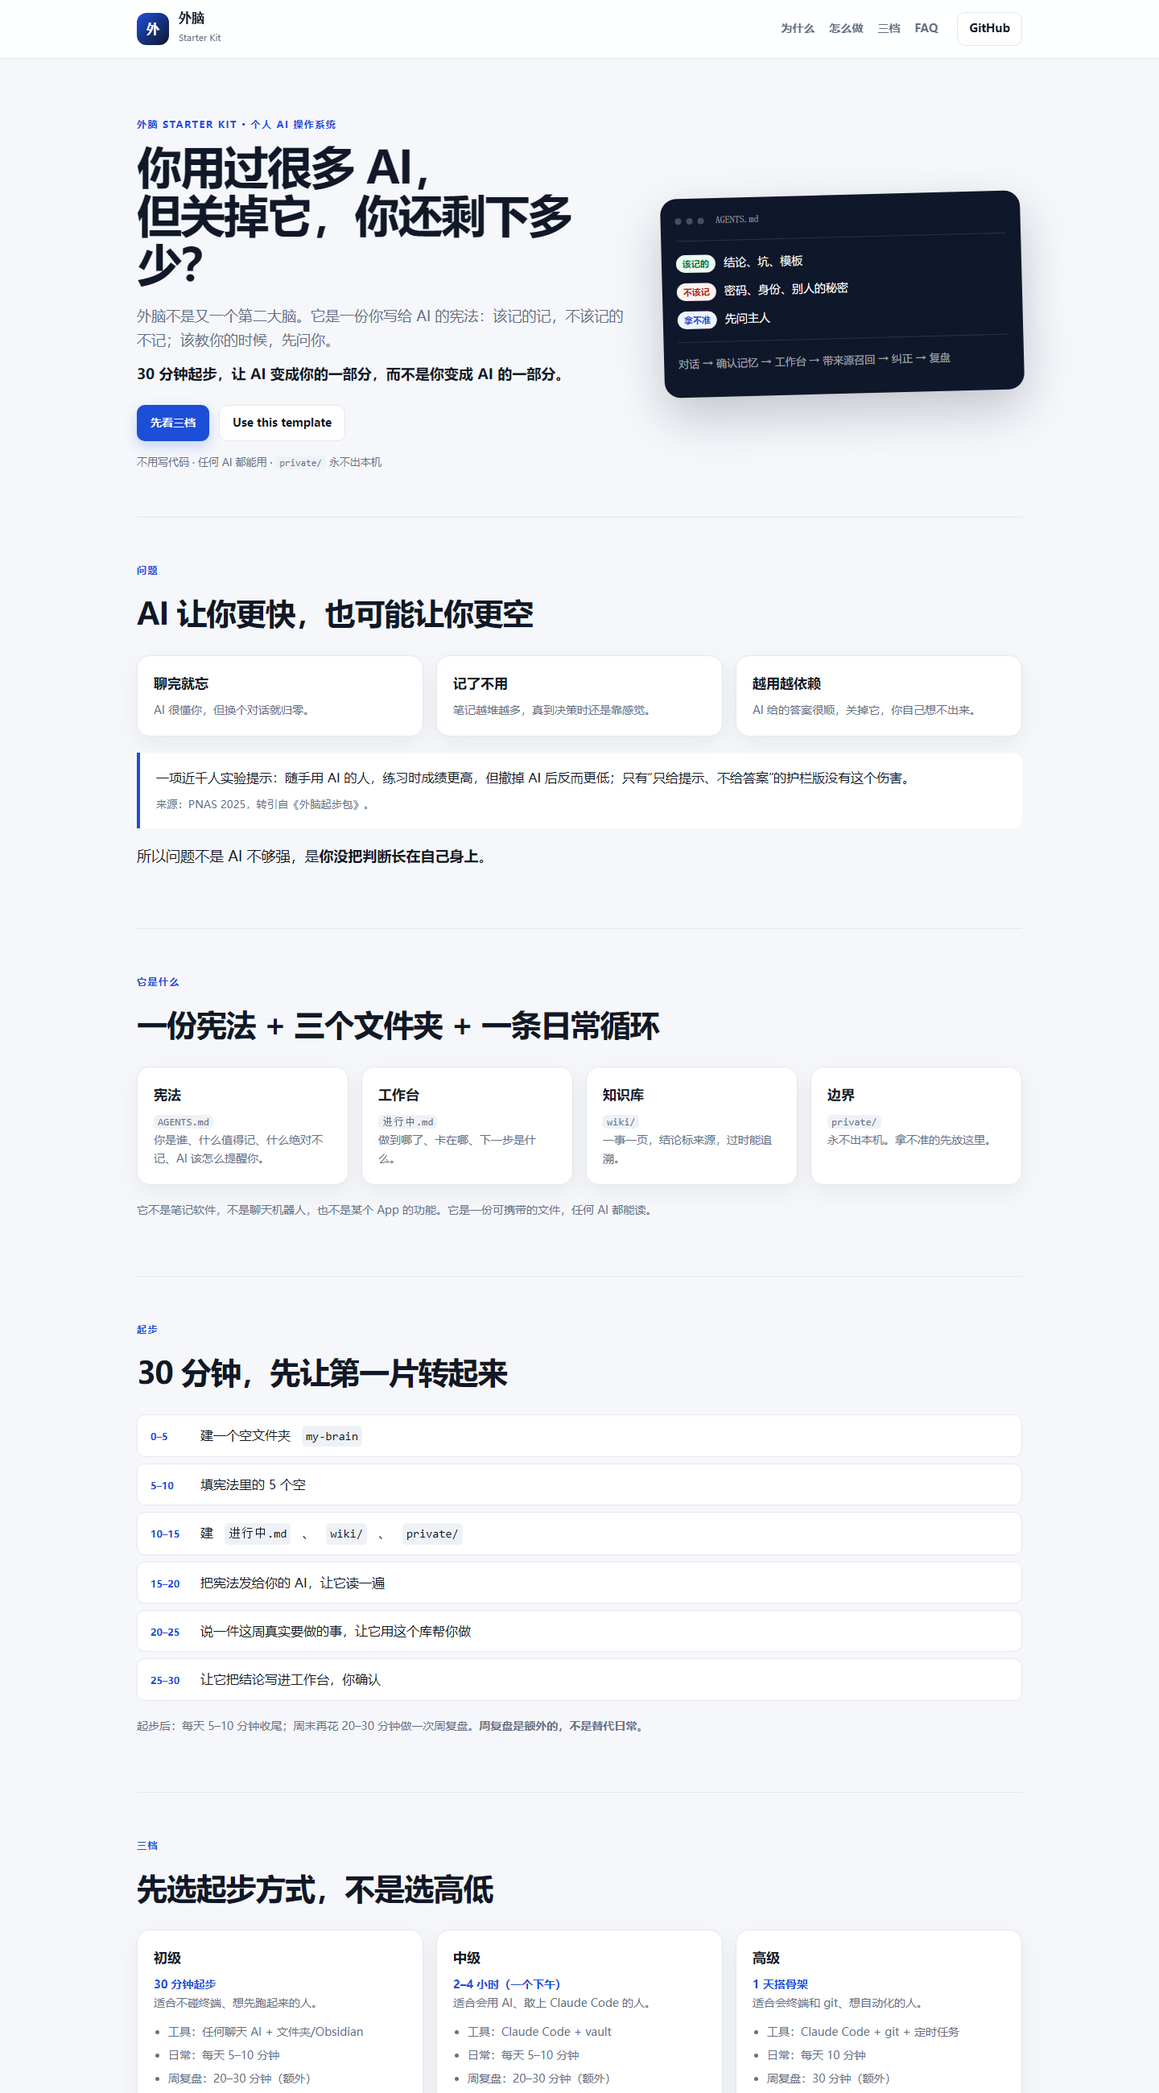
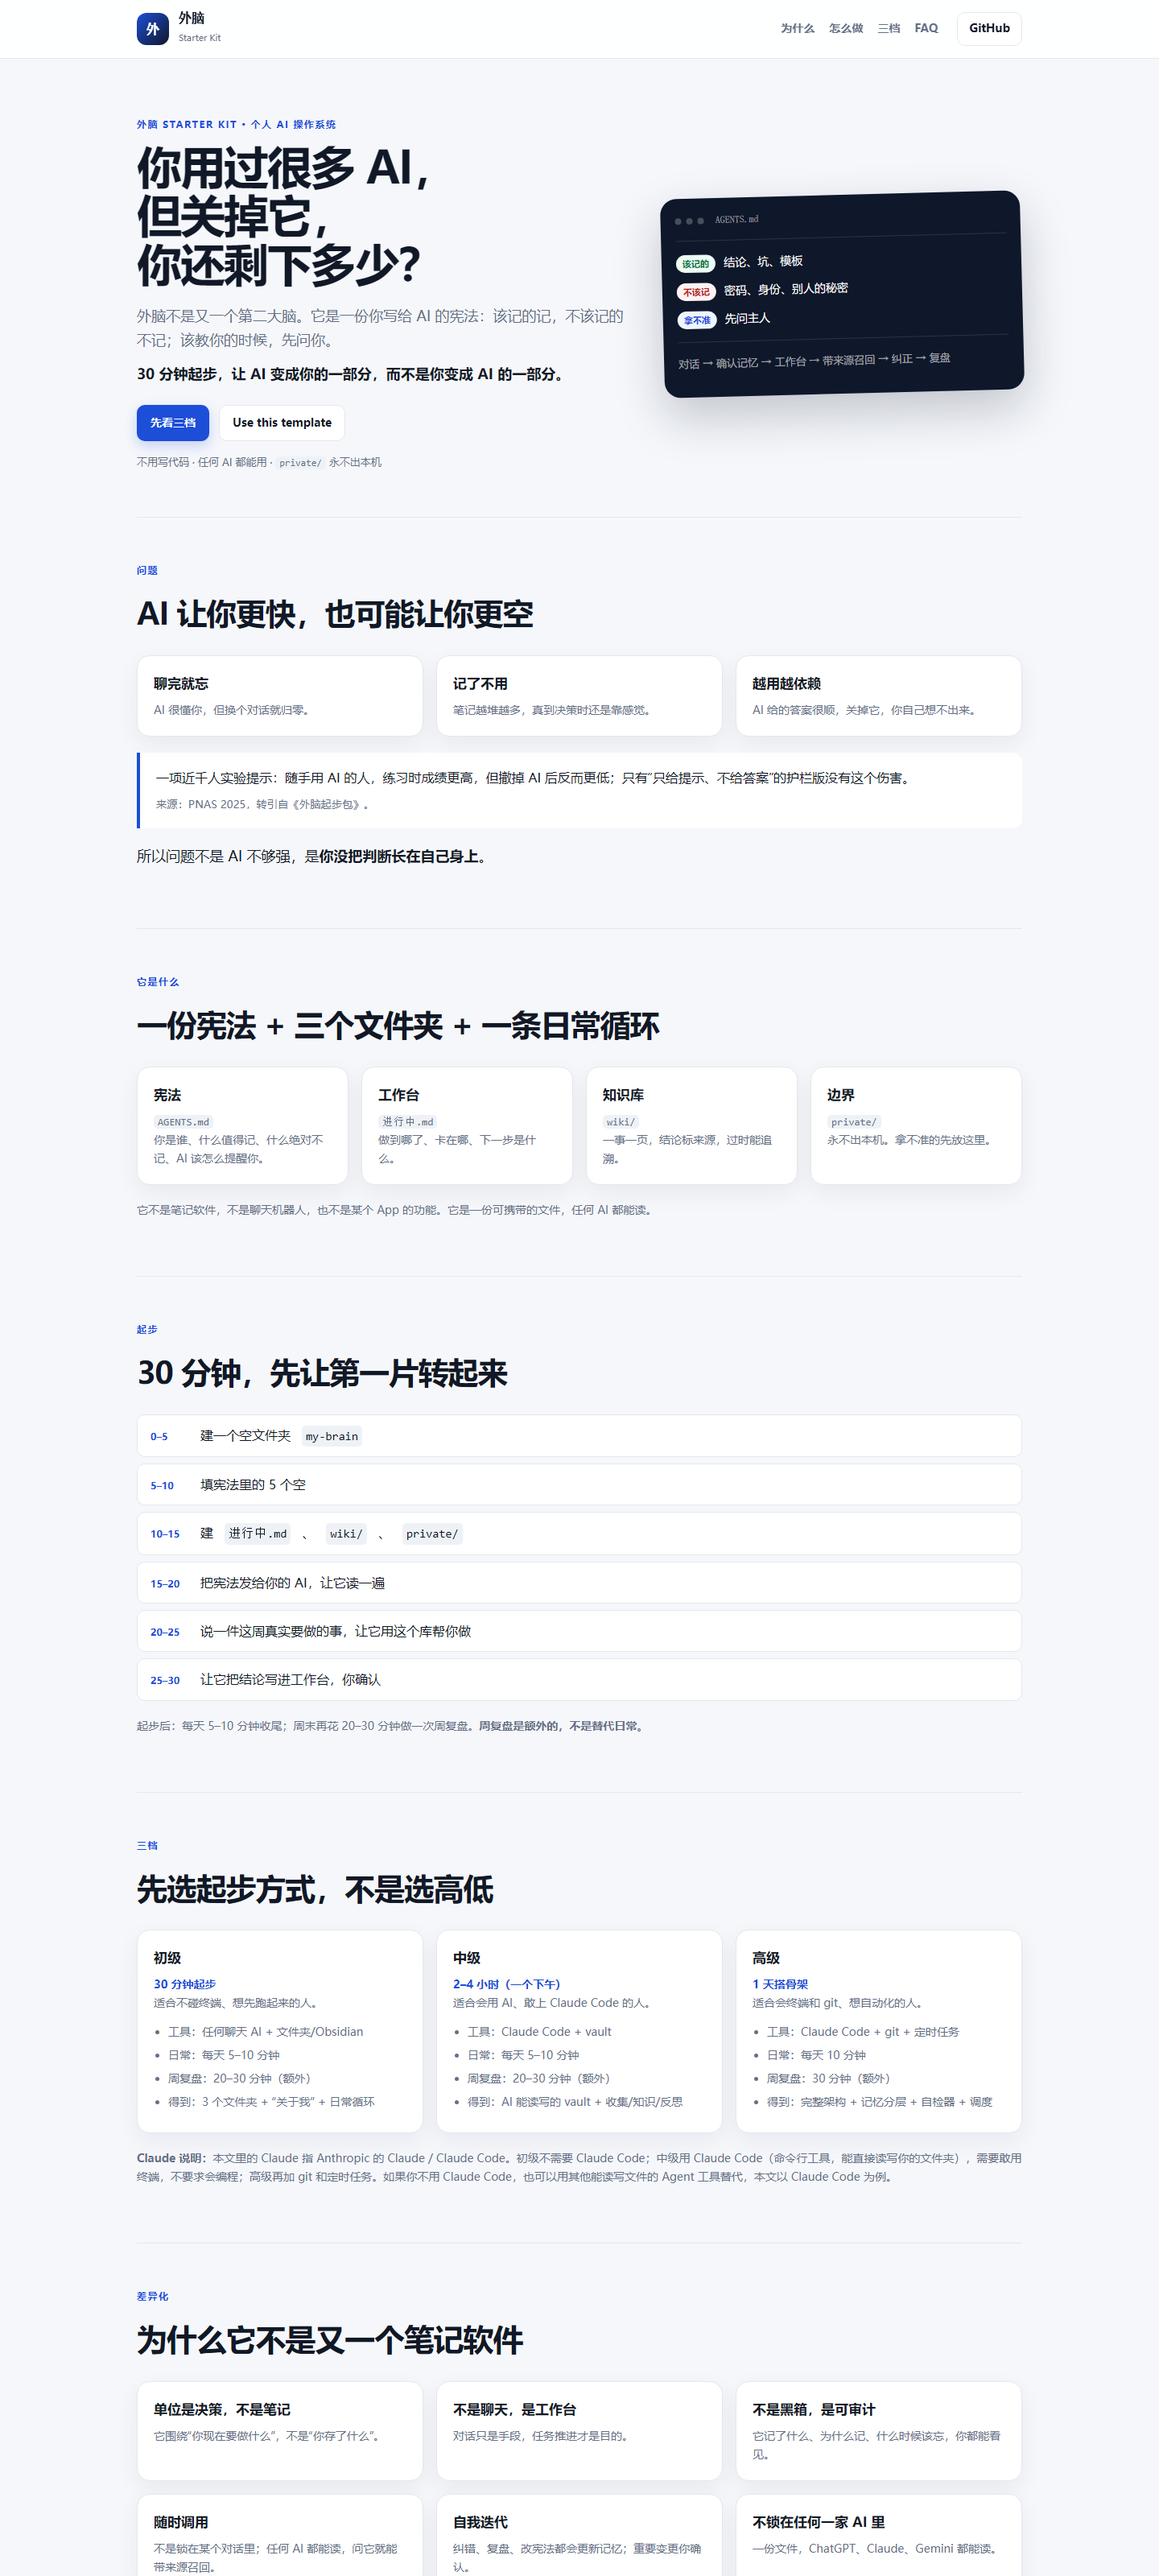
docs: clarify recall and self-iteration in FAQ

diff --git a/site/index.html b/site/index.html
@@ -141,10 +141,13 @@
         <div class="card"><h3>单位是决策，不是笔记</h3><p>它围绕“你现在要做什么”，不是“你存了什么”。</p></div>
         <div class="card"><h3>不是聊天，是工作台</h3><p>对话只是手段，任务推进才是目的。</p></div>
         <div class="card"><h3>不是黑箱，是可审计</h3><p>它记了什么、为什么记、什么时候该忘，你都能看见。</p></div>
+        <div class="card"><h3>随时调用</h3><p>不是锁在某个对话里；任何 AI 都能读，问它就能带来源召回。</p></div>
+        <div class="card"><h3>自我迭代</h3><p>纠错、复盘、改宪法都会更新记忆；重要变更你确认。</p></div>
         <div class="card"><h3>不锁在任何一家 AI 里</h3><p>一份文件，ChatGPT、Claude、Gemini 都能读。</p></div>
         <div class="card"><h3>不追求让你多用它</h3><p>它的成功标准，是关掉它你还会想。</p></div>
         <div class="card"><h3>有边界</h3><p><code>private/</code> 从第一天就存在，永不出本机。</p></div>
       </div>
+      <p class="note"><strong>笔记是仓库，外脑是循环：</strong>随时能叫出来，用完能改，改完会记住。</p>
     </section>
 
     <section class="section container">
@@ -166,7 +169,16 @@
         <details><summary>我的数据安全吗？</summary><p><code>private/</code> 永不出本机；可分享层和私有层从第一天分开。</p></details>
         <details><summary>免费吗？</summary><p>Starter Kit 开源；你的外脑是你自己的文件，不是租来的账号。</p></details>
         <details><summary>不用了会怎样？</summary><p>文件还在你手里。没有锁定，没有迁移成本。</p></details>
-        <details><summary>这不就是笔记软件吗？</summary><p>不是。笔记软件存内容；外脑管的是“记什么、什么时候用、什么时候该忘”。</p></details>
+        <details>
+          <summary>这不就是笔记软件吗？</summary>
+          <p>不是。笔记软件是仓库，外脑是循环。</p>
+          <ul>
+            <li><strong>随时调用</strong>：不是锁在某个对话里；只要 AI 能读这个文件夹，你随时可以问“我以前怎么处理过 X”，它带来源召回。</li>
+            <li><strong>自我迭代</strong>：每次纠错、每次复盘、每次改宪法，都会更新它的记忆和规则；但重要变更要你确认，不偷偷改。</li>
+            <li><strong>越用越像你</strong>：不是存得越多越好，而是记对了、用上了、改对了。</li>
+          </ul>
+          <p>一句话：笔记存内容，外脑管“记什么、什么时候用、什么时候该忘”，而且随时能叫出来、用完能改、改完会记住。</p>
+        </details>
       </div>
     </section>
 

diff --git a/site/styles.css b/site/styles.css
@@ -185,6 +185,8 @@ h3 { margin: 0 0 8px; font-size: 17px; }
 details { background: #fff; border: 1px solid var(--line); border-radius: 10px; padding: 14px 18px; }
 summary { cursor: pointer; font-weight: 700; }
 details p { margin: 10px 0 0; color: var(--muted); }
+details ul { margin: 10px 0 0; padding-left: 20px; color: var(--muted); }
+details li { margin-bottom: 6px; }
 .final { text-align: center; }
 .final p { color: var(--muted); }
 .final .actions { justify-content: center; }

diff --git a/docs/landing-copy.md b/docs/landing-copy.md
@@ -106,8 +106,12 @@
 - **单位不是笔记，是决策**：它围绕“你现在要做什么”，不是“你存了什么”。
 - **不是聊天，是工作台**：对话只是手段，任务推进才是目的。
 - **不是黑箱，是可审计**：它记了什么、为什么记、什么时候该忘，你都能看见。
+- **随时调用**：不是锁在某个对话里；只要 AI 能读这个文件夹，问它就能带来源召回。
+- **自我迭代**：纠错、复盘、改宪法都会更新记忆和规则；重要变更你确认，不偷偷改。
 - **不锁在任何一家 AI 里**：一份文件，ChatGPT、Claude、Gemini 都能读。
 - **不追求让你多用它**：它的成功标准，是关掉它你还会想。
+
+**笔记是仓库，外脑是循环：随时能叫出来，用完能改，改完会记住。**
 
 ---
 
